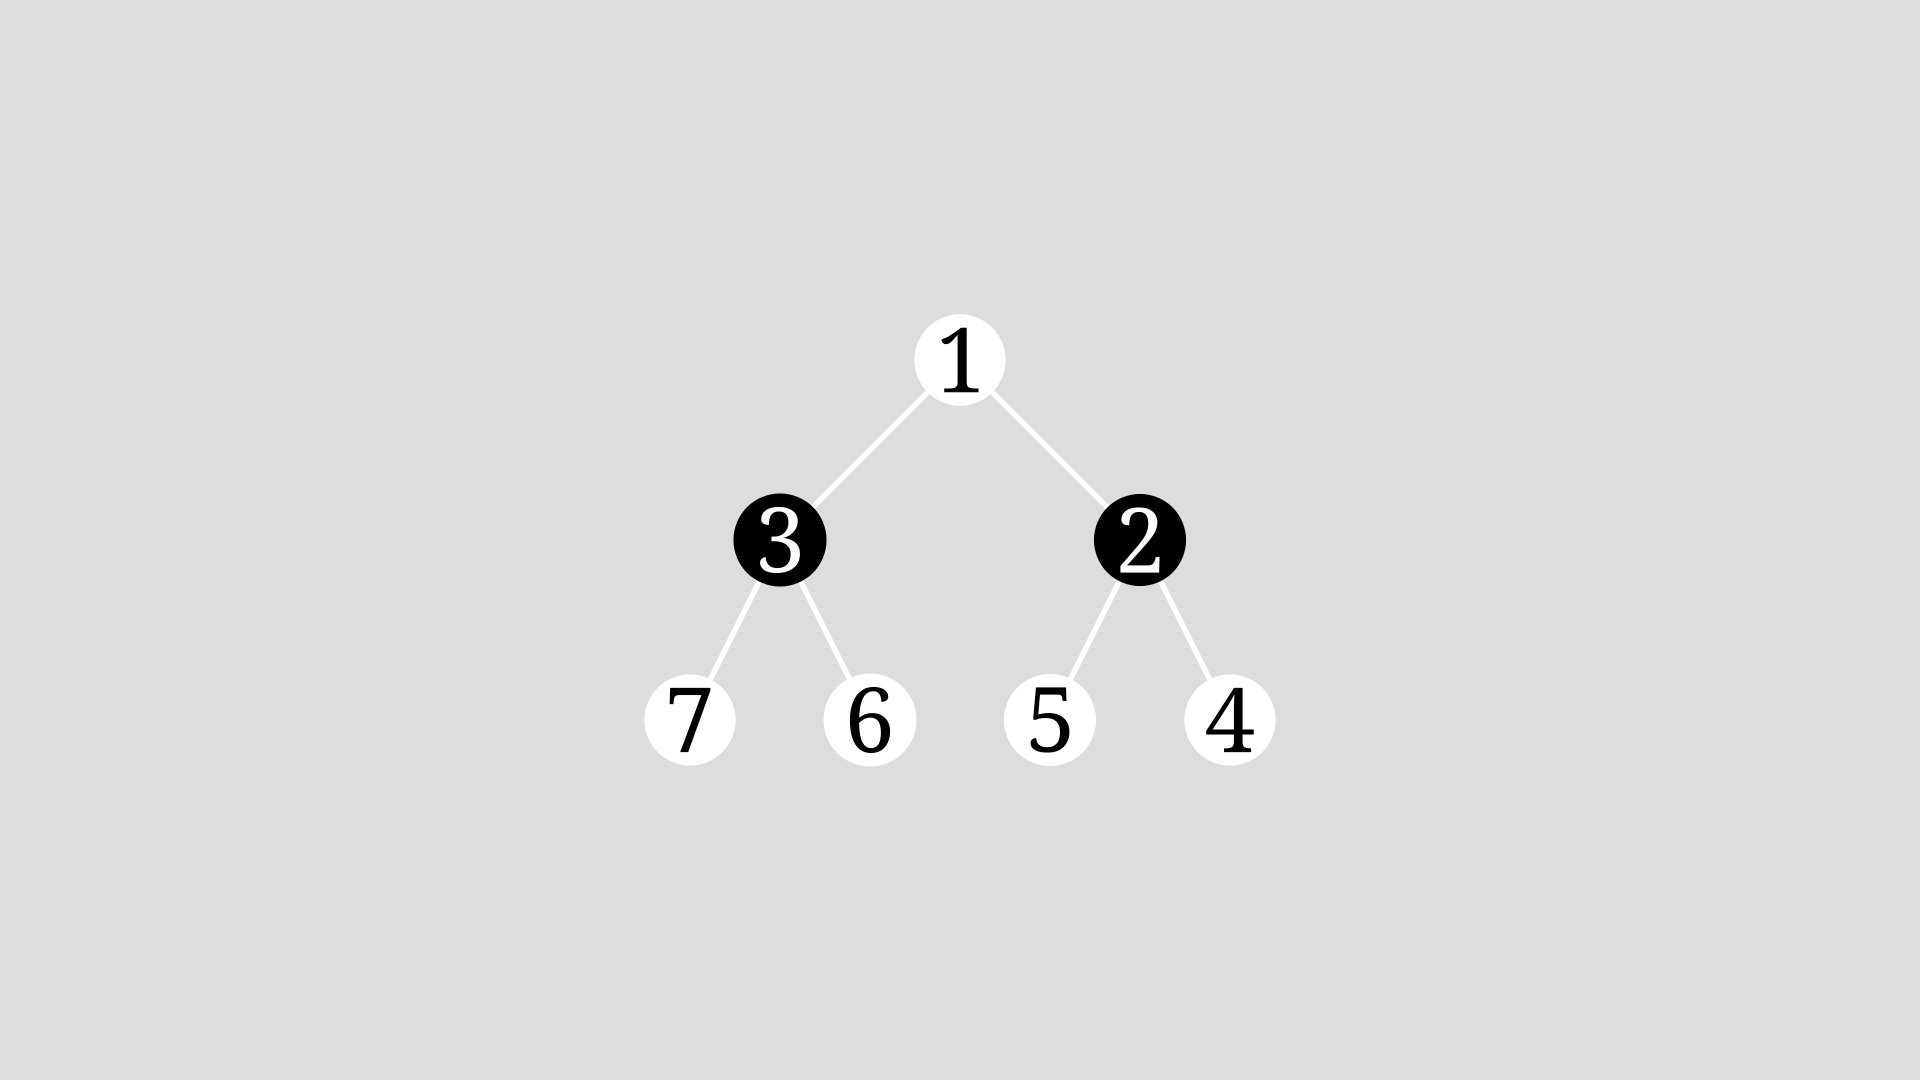
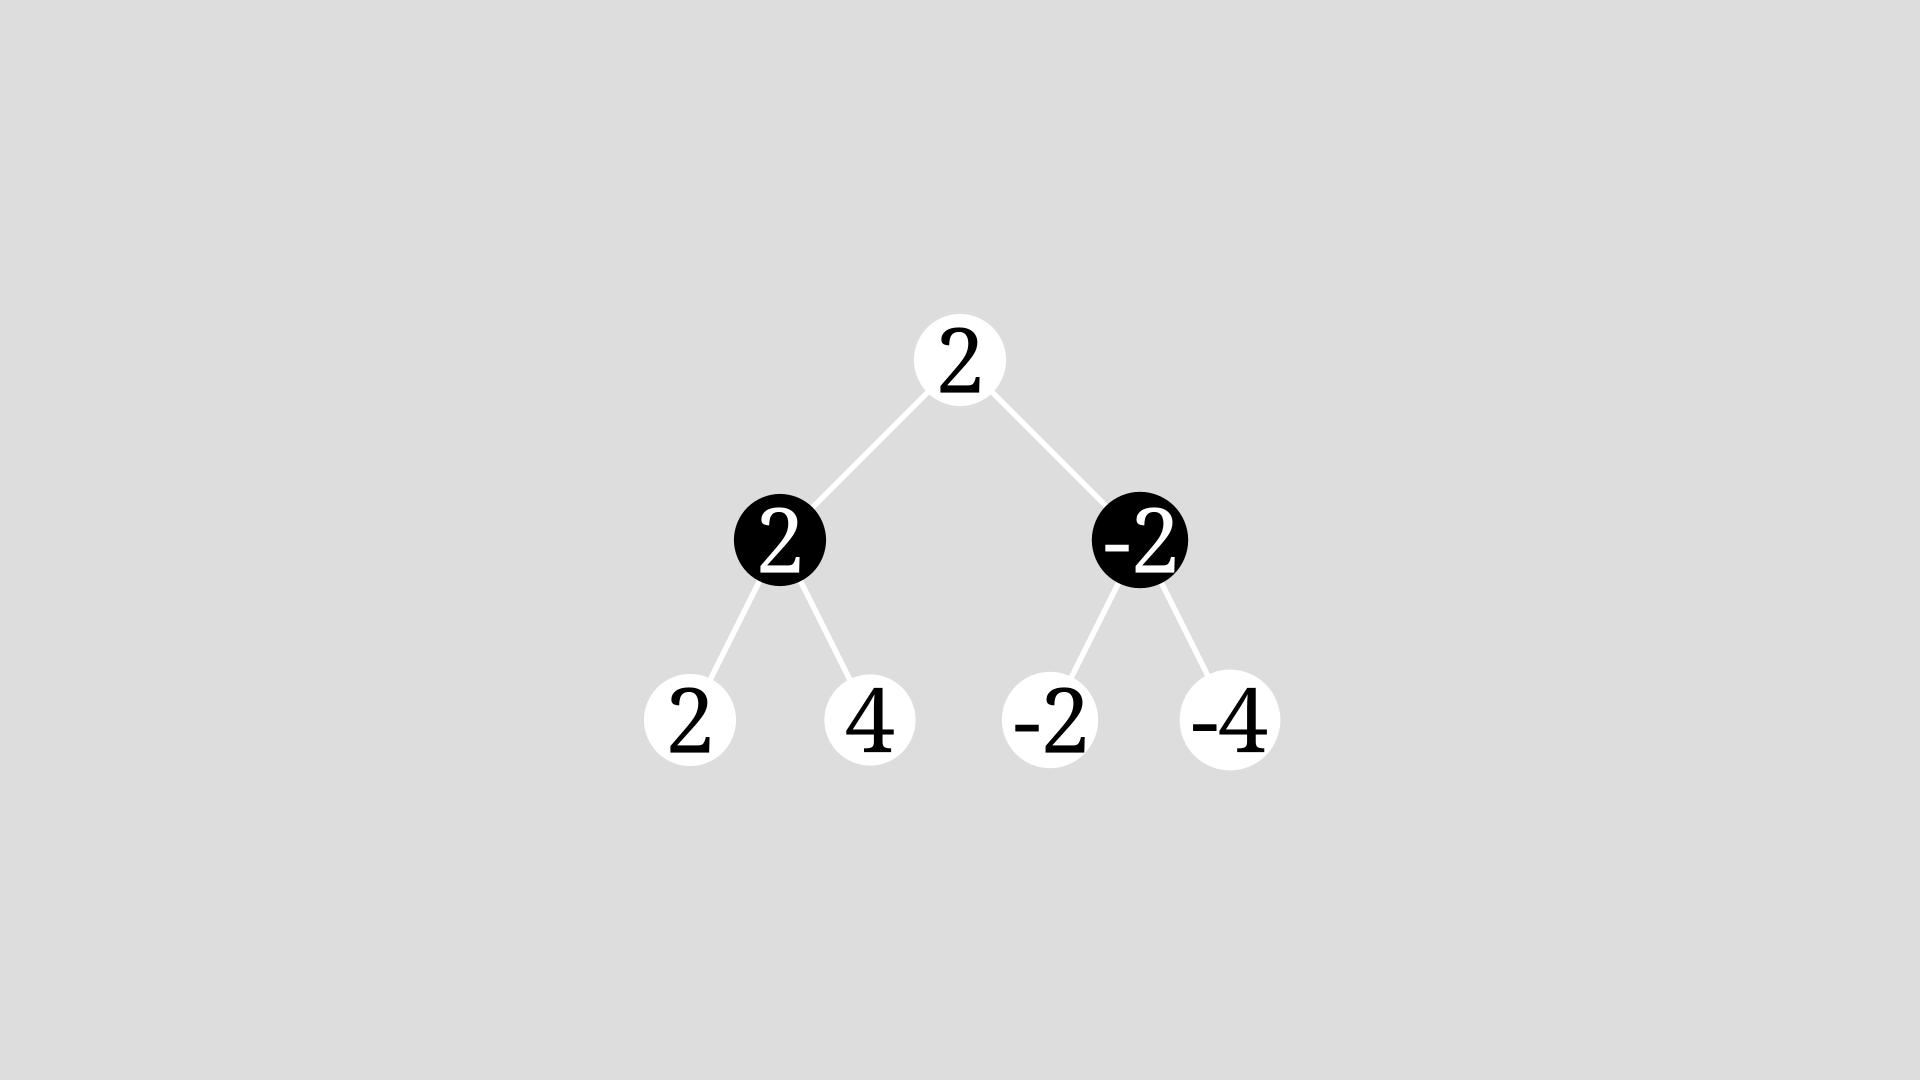
Began the DFS animation in manim.py

diff --git a/manim.py b/manim.py
@@ -1,26 +1,29 @@
 from manim import *
+from collections import defaultdict
+
 
 class TreeLayout(Scene):
     def construct(self):
         self.camera.background_color = GRAY_A
 
-        vertices_by_color = {"WHITE": [1, 4, 5, 6, 7], "BLACK": [2, 3]}
-        vertices = [v for group in vertices_by_color.values() for v in group]
+        vertices_by_color = {"WHITE": [(1, "2"), (4, "-4"), (5, "-2"), (6, "4"), (7, "2")], "BLACK": [(2, "-2"), (3, "2")]}
+        vertices = [vertice for group in vertices_by_color.values() for vertice, label in group]
 
         vertex_config = {
             v: {
                 "fill_color": color,
-                "label": str(v),  # Label text
+                "label": label,  # Label text
                 "label_color": "WHITE" if color == "BLACK" else "BLACK"
             }
             for color, group in vertices_by_color.items()
-            for v in group
+            for v, label in group
         }
+        edges = [(1, 2), (1, 3), (2, 4), (2, 5), (3, 6), (3, 7)]
 
         # Create the graph
         graph = Graph(
             vertices,
-            [(1, 2), (1, 3), (2, 4), (2, 5), (3, 6), (3, 7)],
+            edges,
             vertex_config={
                 v: {"fill_color": vertex_config[v]["fill_color"]}
                 for v in vertex_config
@@ -30,4 +33,21 @@ class TreeLayout(Scene):
             labels={v: Text(vertex_config[v]["label"], color=vertex_config[v]["label_color"]) for v in vertex_config}
         )
 
-        self.add(graph)
+        dfs_graph = defaultdict(list)
+
+        for source, destination in edges:
+            dfs_graph[source].append(destination)
+            dfs_graph[destination].append(source)
+
+
+        visited = {1}
+        queue = [1]
+
+        while queue:
+            node = queue.pop(0) 
+            for neighbor in dfs_graph[node]:
+                if neighbor not in visited:
+                    self.play(graph.vertices[neighbor].animate.set_color(RED))
+                    visited.add(neighbor)
+                    queue.append(neighbor)
+
